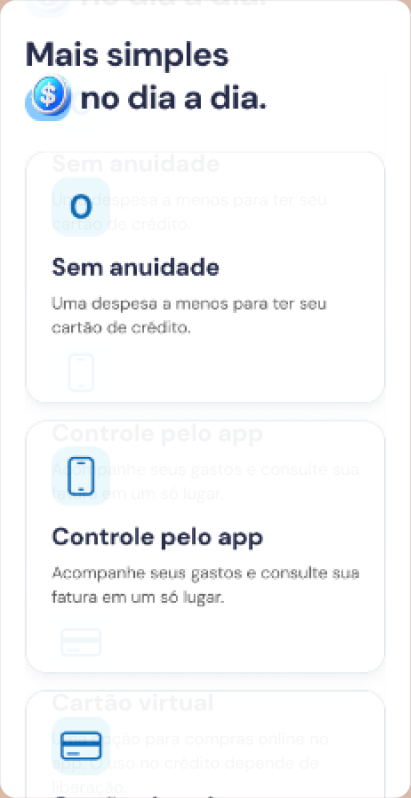
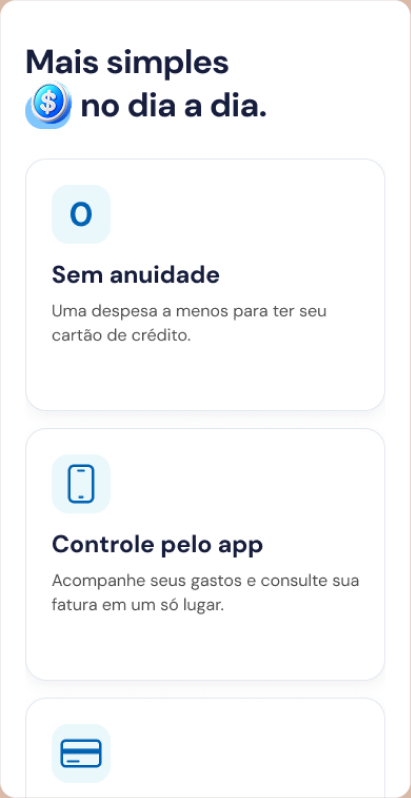
feat: refine portfolio content and metadata

diff --git a/src/data/education.js b/src/data/education.js
@@ -7,6 +7,7 @@
   { id: 'design-centrado-no-usuario', type: 'Curso livre', course: 'Design Centrado no Usuário', institution: 'PUCRS', year: '2025', position: { left: 996, top: 574, rotation: -4 } },
   { id: 'imersao-em-design', type: 'Curso livre', course: 'Imersão em Design', institution: 'Tera', year: '2024', position: { left: 462.4187, top: 610, rotation: 3 } },
   { id: 'impacto-do-branding', type: 'Curso livre', course: 'Impacto do Branding', institution: 'Ana Couto', year: '2025', position: { left: 128, top: 578, rotation: -3 } },
+  { id: 'fluencia-em-ia', type: 'Curso livre', course: 'Fluência em IA', institution: 'Fundação Bradesco', year: '2026', position: { left: 710, top: 628, rotation: -3 } },
 ];
 
 // Compatibilidade com Education.astro, preservado para referência.

diff --git a/src/data/projects.js b/src/data/projects.js
@@ -524,7 +524,7 @@ export const projects = [
   {
     title: 'Cartão de crédito Neon',
     homeTitle: 'Neon',
-    description: 'Cartão de crédito Neon',
+    description: 'Case de estudo de reformulação da página de cartão de crédito do banco Neon. O objetivo foi deixar a jornada do usuário mais clara e efetiva.',
     tags: [],
     id: 'project-neon',
     homeOrder: 1,
